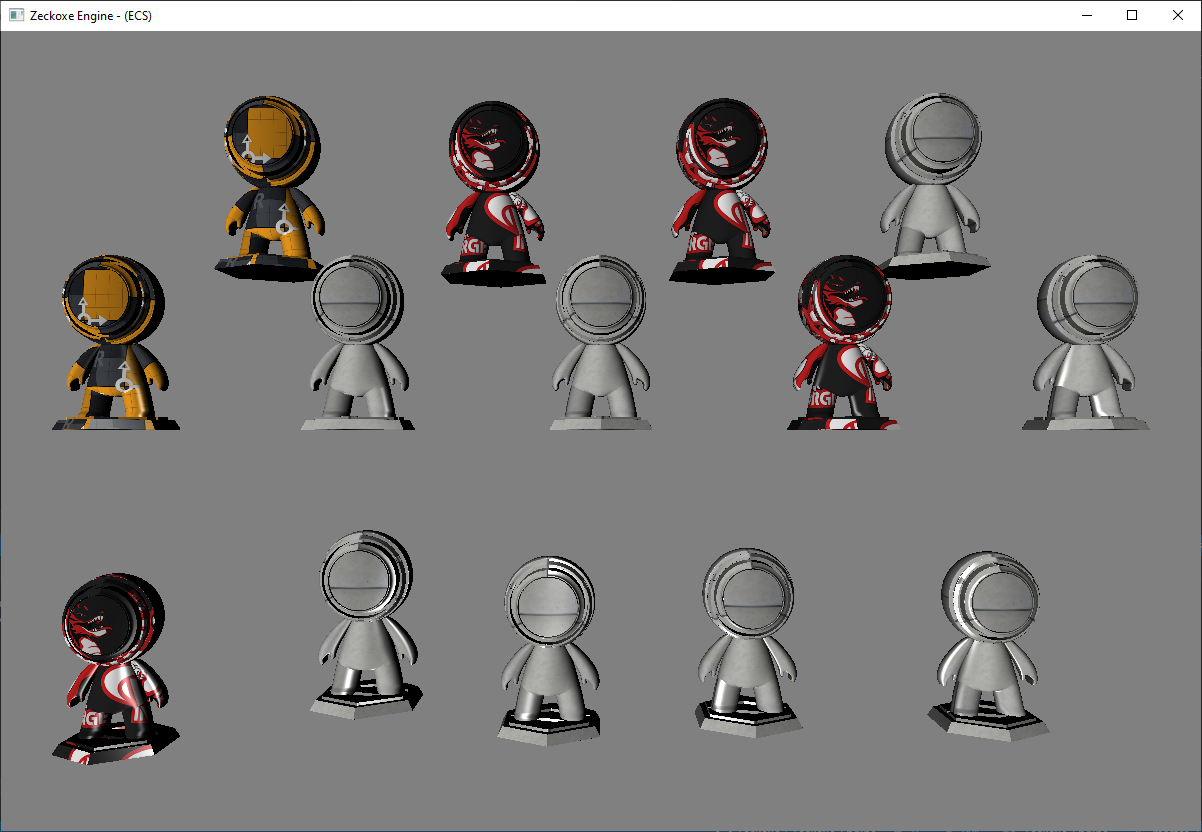
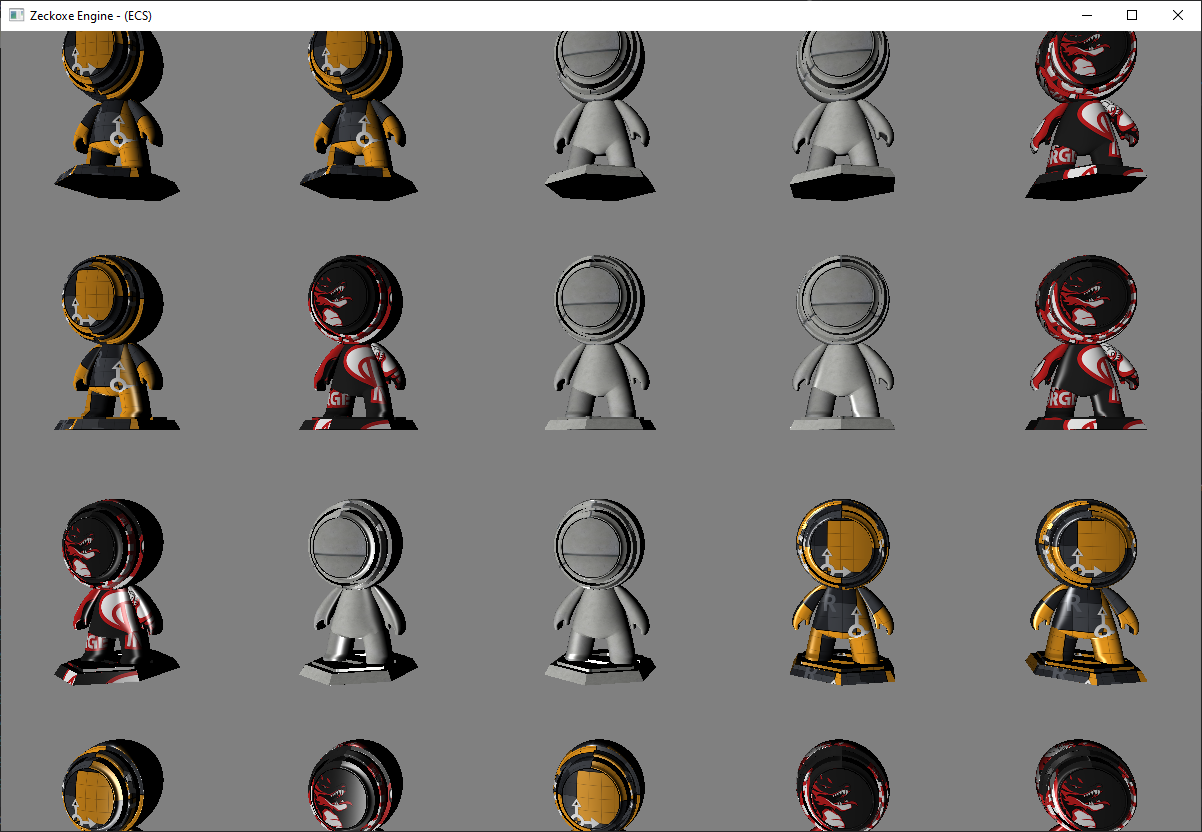
[Samples] Fix ECS

diff --git a/Src/Samples/Samples/ECS.cs b/Src/Samples/Samples/ECS.cs
@@ -6,7 +6,6 @@
 =============================================================================*/
 
 
-using DefaultEcs;
 using System;
 using System.Collections.Generic;
 using System.Numerics;
@@ -17,7 +16,6 @@ using Zeckoxe.Engine;
 using Zeckoxe.Games;
 using Zeckoxe.GLTF;
 using Zeckoxe.Graphics;
-//using Zeckoxe.Physics;
 using Buffer = Zeckoxe.Graphics.Buffer;
 
 namespace Samples.Samples
@@ -25,7 +23,7 @@ namespace Samples.Samples
 
     public interface IComponent
     {
-        public EntityServices Entity { get; set; }
+        public Entity Entity { get; set; }
         public DeviceInfo DeviceInfo { get; set; }
 
         public Transform Transform { get; set; }
@@ -37,38 +35,33 @@ namespace Samples.Samples
 
     public class DeviceInfo
     {
-        public EntityServices Entity { get; set; }
+        public Entity Entity { get; set; }
 
         public Device Device { get; set; }
         public Framebuffer Framebuffer { get; set; }
     }
 
 
-    public class EntityServices
+    public class Entity
     {
         public Transform Transform;
-        public DefaultEcs.Entity SceneNode;
 
         public List<IComponent> Components { get; set; } = new List<IComponent>();
         public List<string> ComponentsNames { get; set; } = new List<string>();
         public DeviceInfo DeviceInfo { get; }
 
-        public EntityServices(DeviceInfo deviceInfo)
+        public Entity(DeviceInfo deviceInfo)
         {
             Transform = new Transform();
-            World world = new World();
-            SceneNode = world.CreateEntity();
             DeviceInfo = deviceInfo;
 
             //SceneNode.Set
         }
 
 
-        public EntityServices(Game game)
+        public Entity(Game game)
         {
             Transform = new Transform();
-            World world = new World();
-            SceneNode = world.CreateEntity();
             DeviceInfo = new()
             {
                 Device = game.Device,
@@ -103,9 +96,6 @@ namespace Samples.Samples
         public void AddComponent(IComponent Component, string name = "")
         {
             Component.DeviceInfo = DeviceInfo;
-
-            SceneNode.Set<IComponent>(Component);
-
             ComponentsNames.Add(name);
             Components.Add(Component);
             Component.Entity = this;
@@ -201,32 +191,7 @@ namespace Samples.Samples
     {
         public class Camera
         {
-         //   public Ray GetRayFromScreenPoint(float screenX, float screenY, Window window)
-         //   {
-         //;
-
-         //       // Normalized Device Coordinates Top-Left (-1, 1) to Bottom-Right (1, -1)
-
-         //       float z = 1.0f;
-         //       Vector3 deviceCoords = new Vector3(x, y, z);
-
-         //       // Clip Coordinates
-         //       Vector4 clipCoords = new Vector4(deviceCoords.X, deviceCoords.Y, -1.0f, 1.0f);
-
-         //       // View Coordinates
-         //       Matrix4x4 invProj;
-         //       Matrix4x4.Invert(Projection, out invProj);
-         //       Vector4 viewCoords = Vector4.Transform(clipCoords, invProj);
-         //       viewCoords.Z = 1.0f;
-         //       viewCoords.W = 0.0f;
-
-         //       Matrix4x4 invView;
-         //       Matrix4x4.Invert(View, out invView);
-         //       Vector3 worldCoords = new Vector3(Vector4.Transform(viewCoords, invView).X, Vector4.Transform(viewCoords, invView).Y, Vector4.Transform(viewCoords, invView).Z);
-         //       worldCoords = Vector3.Normalize(worldCoords);
-
-         //       return new Ray(position, worldCoords);
-         //   }
+        
 
             public enum CamType { LookAt, FirstPerson };
 
@@ -370,7 +335,7 @@ namespace Samples.Samples
         }
 
 
-        public EntityServices Entity { get; set; }
+        public Entity Entity { get; set; }
         public DeviceInfo DeviceInfo { get; set; }
 
 
@@ -406,23 +371,6 @@ namespace Samples.Samples
     }
 
 
-    public static class ADDList
-    {
-        private static Random rng = new Random();
-
-        public static void Shuffle<T>(this IList<T> list)
-        {
-            int n = list.Count;
-            while (n > 1)
-            {
-                n--;
-                int k = rng.Next(n + 1);
-                T value = list[k];
-                list[k] = list[n];
-                list[n] = value;
-            }
-        }
-    }
 
     public class Model : IComponent
     {
@@ -486,7 +434,7 @@ namespace Samples.Samples
 
             int index = random.Next(0, textures.Count);
 
-            Console.WriteLine(index);
+            //Console.WriteLine(index);
 
             Descriptor = new(PipelineState);
             Descriptor.SetUniformBuffer(0, ConstBuffer); // Binding 0: Uniform buffer (Vertex shader)
@@ -495,7 +443,7 @@ namespace Samples.Samples
             Camera = camera;
         }
 
-        public EntityServices Entity { get; set; }
+        public Entity Entity { get; set; }
         public Transform Transform { get; set; }
 
 
@@ -623,7 +571,7 @@ namespace Samples.Samples
     }
     public class ECS : Game, IDisposable
     {
-        private EntityServices Entity;
+        private Entity Entity;
 
         public ECS() : base()
         {
@@ -643,44 +591,35 @@ namespace Samples.Samples
         {
             base.Initialize();
 
-
-            //Camera.SetLens(Window.Width, Window.Height);
-
-
-
-            Entity = new EntityServices(this);
+            Entity = new Entity(this);
             cameraComponent = new CameraComponent(Window);
 
-            for (int i = -2; i < 3; i++)
+            for (int x = -2; x < 3; x++)
             {
-                Entity.AddComponent(new Model("Models/mesh_mat.gltf", cameraComponent, new DeviceInfo() { Device = Device, Framebuffer = Framebuffer })
+                for (int y = -2; y < 3; y++)
                 {
-
-                    Transform = new Transform()
+                    Entity.AddComponent(new Model("Models/mesh_mat.gltf", cameraComponent, new DeviceInfo() { Device = Device, Framebuffer = Framebuffer })
                     {
-                        Position = new Vector3(i, 0, 0),
-                        Scale = new Vector3(.05f, .05f, .05f)
-                    },
 
-                }, "Model");
+                        Transform = new Transform()
+                        {
+                            Position = new Vector3(x, y, 0),
+                            Scale = new Vector3(.05f, .05f, .05f)
+                        },
+
+                    }, "Model");
+                }
+
 
             }
-            Input.Mice[0].DoubleClick += ECS_DoubleClick;
-
-
-
-
-
-            //(Entity.Get("i") as Model).Transform.Position = new Vector3(1,0,0);
-
         }
 
-        private void ECS_DoubleClick(Mouse arg1, MouseButton arg2, Vector2 arg3)
+        private void AddComponent()
         {
-            if (arg2 == MouseButton.Left)
+            var arg3 = Input.Mice[0].Position;
+
+            if (Input.Mice[0].IsButtonPressed(MouseButton.Left))
             {
-                cameraComponent.camera.Update();
-                //var ray = cameraComponent.camera.GetRayFromScreenPoint(arg3.X, arg3.Y, Window);
                 Matrix4x4 p = cameraComponent.camera.Projection;
 
                 // Convert screen pixel to view space.
@@ -693,9 +632,7 @@ namespace Samples.Samples
 
                 Matrix4x4 toWorld = invView;
 
-                ray = new Ray(
-                    Vector3.TransformNormal(ray.Position, toWorld),
-                    Vector3.TransformNormal(ray.Direction, toWorld));
+                ray = new Ray(Vector3.TransformNormal(ray.Position, toWorld), Vector3.TransformNormal(ray.Direction, toWorld));
 
                 Entity.AddComponent(new Model("Models/mesh_mat.gltf", new CameraComponent(Window), new DeviceInfo() { Device = Device, Framebuffer = Framebuffer })
                 {
@@ -714,23 +651,24 @@ namespace Samples.Samples
         private float x = 0.0f;
         public override void Update(GameTime game)
         {
-
-
-
             cameraComponent.camera.Update();
+
+
             for (int i = 0; i < Entity.Components.Count; i++)
             {
-                //Entity.Components[i].Transform.Rotation = Quaternion.CreateFromYawPitchRoll(x, 0, 0);
+                Entity.Components[i].Transform.Rotation = Quaternion.CreateFromYawPitchRoll(x, 0, 0);
             }
             //(Entity.Get("Model") as Model).Transform
-            //m.Transform
+            AddComponent();
+
             Entity.Update();
 
-            x += 0.001f;
+            x += 0.003f;
 
 
 
-
+            Console.WriteLine(Entity.Components.Count);
+            //Console.Clear();
         }
 
 

diff --git a/Src/Samples/Program.cs b/Src/Samples/Program.cs
@@ -14,6 +14,7 @@ namespace Samples
             //using var App = new Triangle();
             //using var App = new Transformations();
             //using var App = new LoadGLTF();
+            //using var App = new LoadTexture();
             //using var App = new Lighting();
             using var App = new ECS();
 
